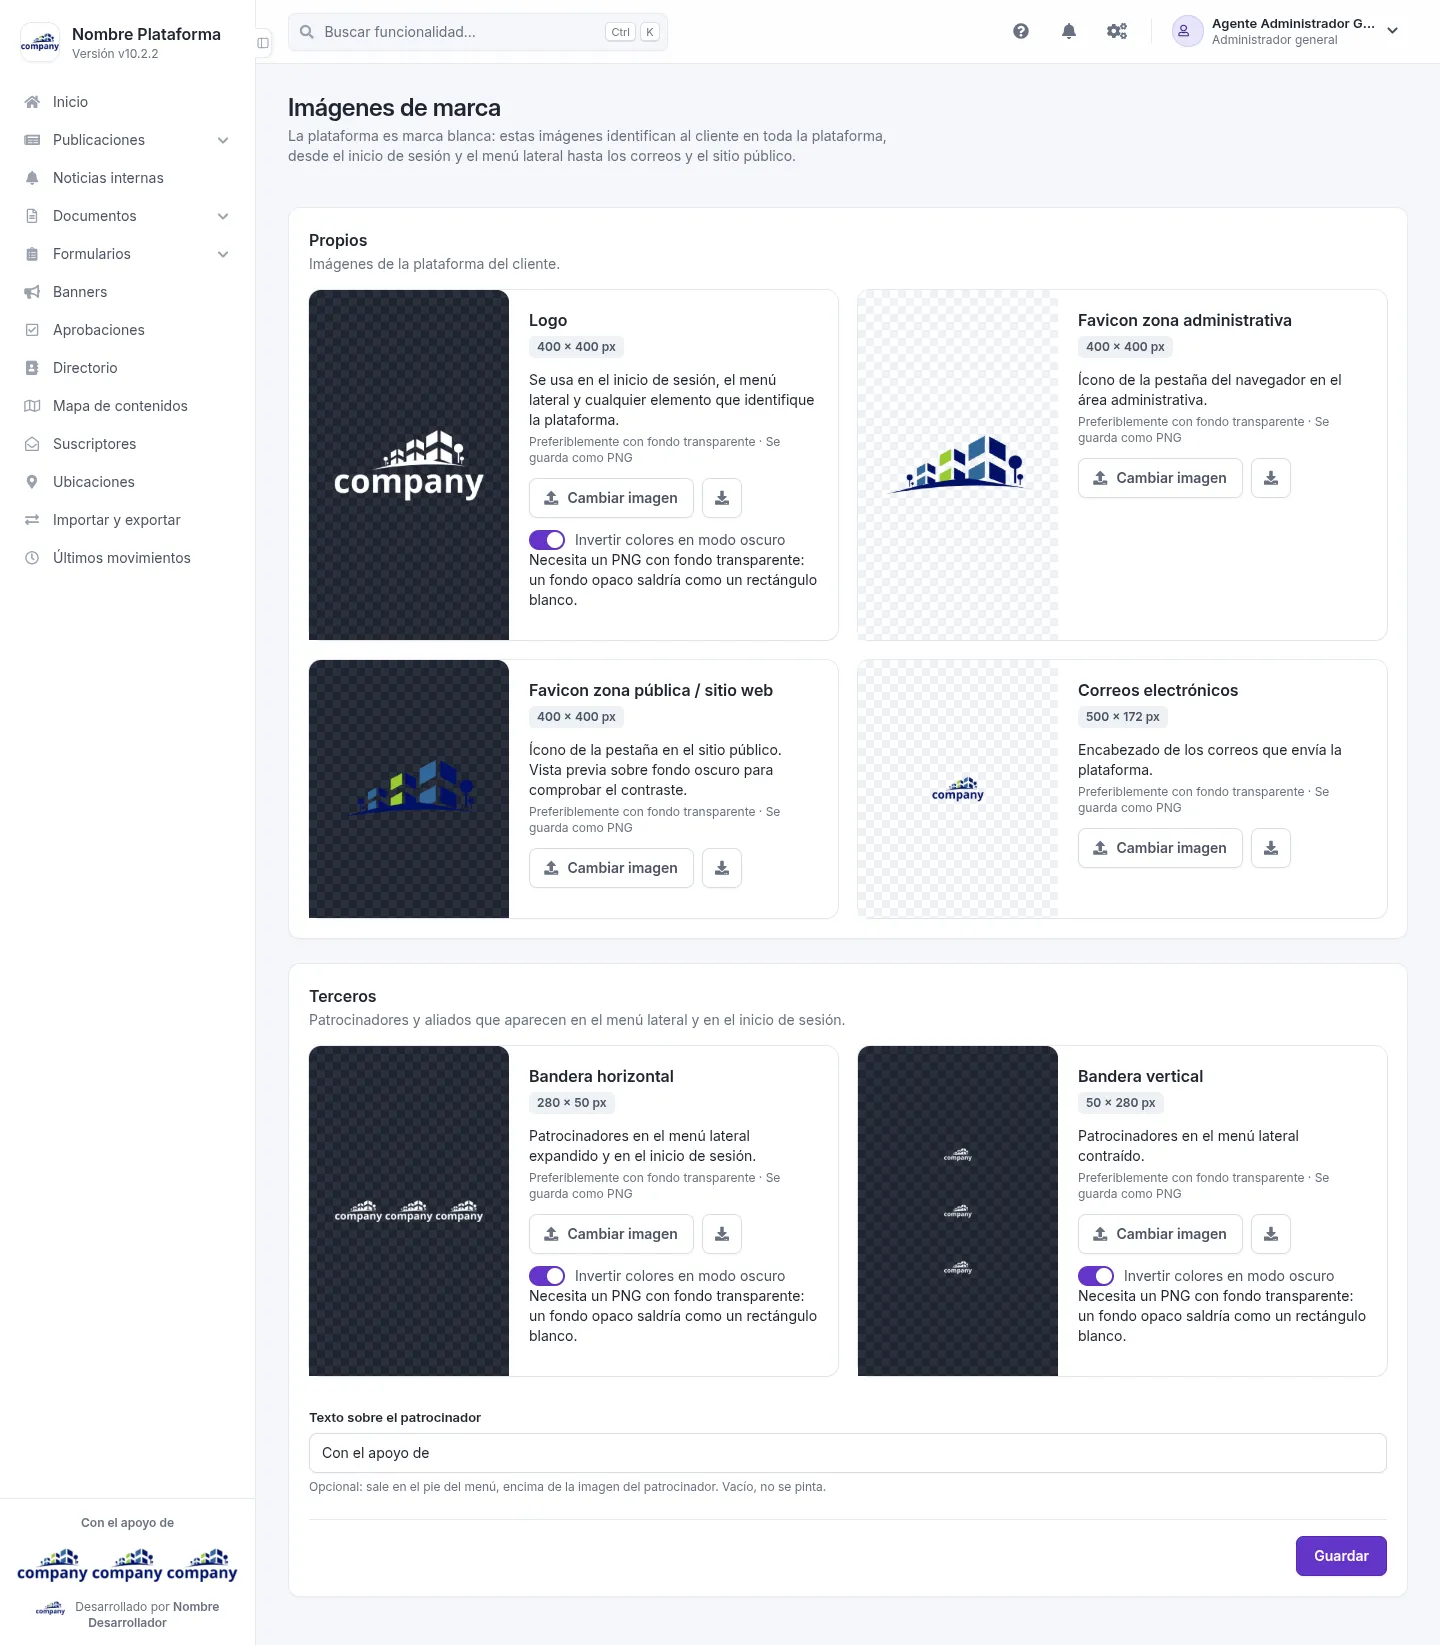
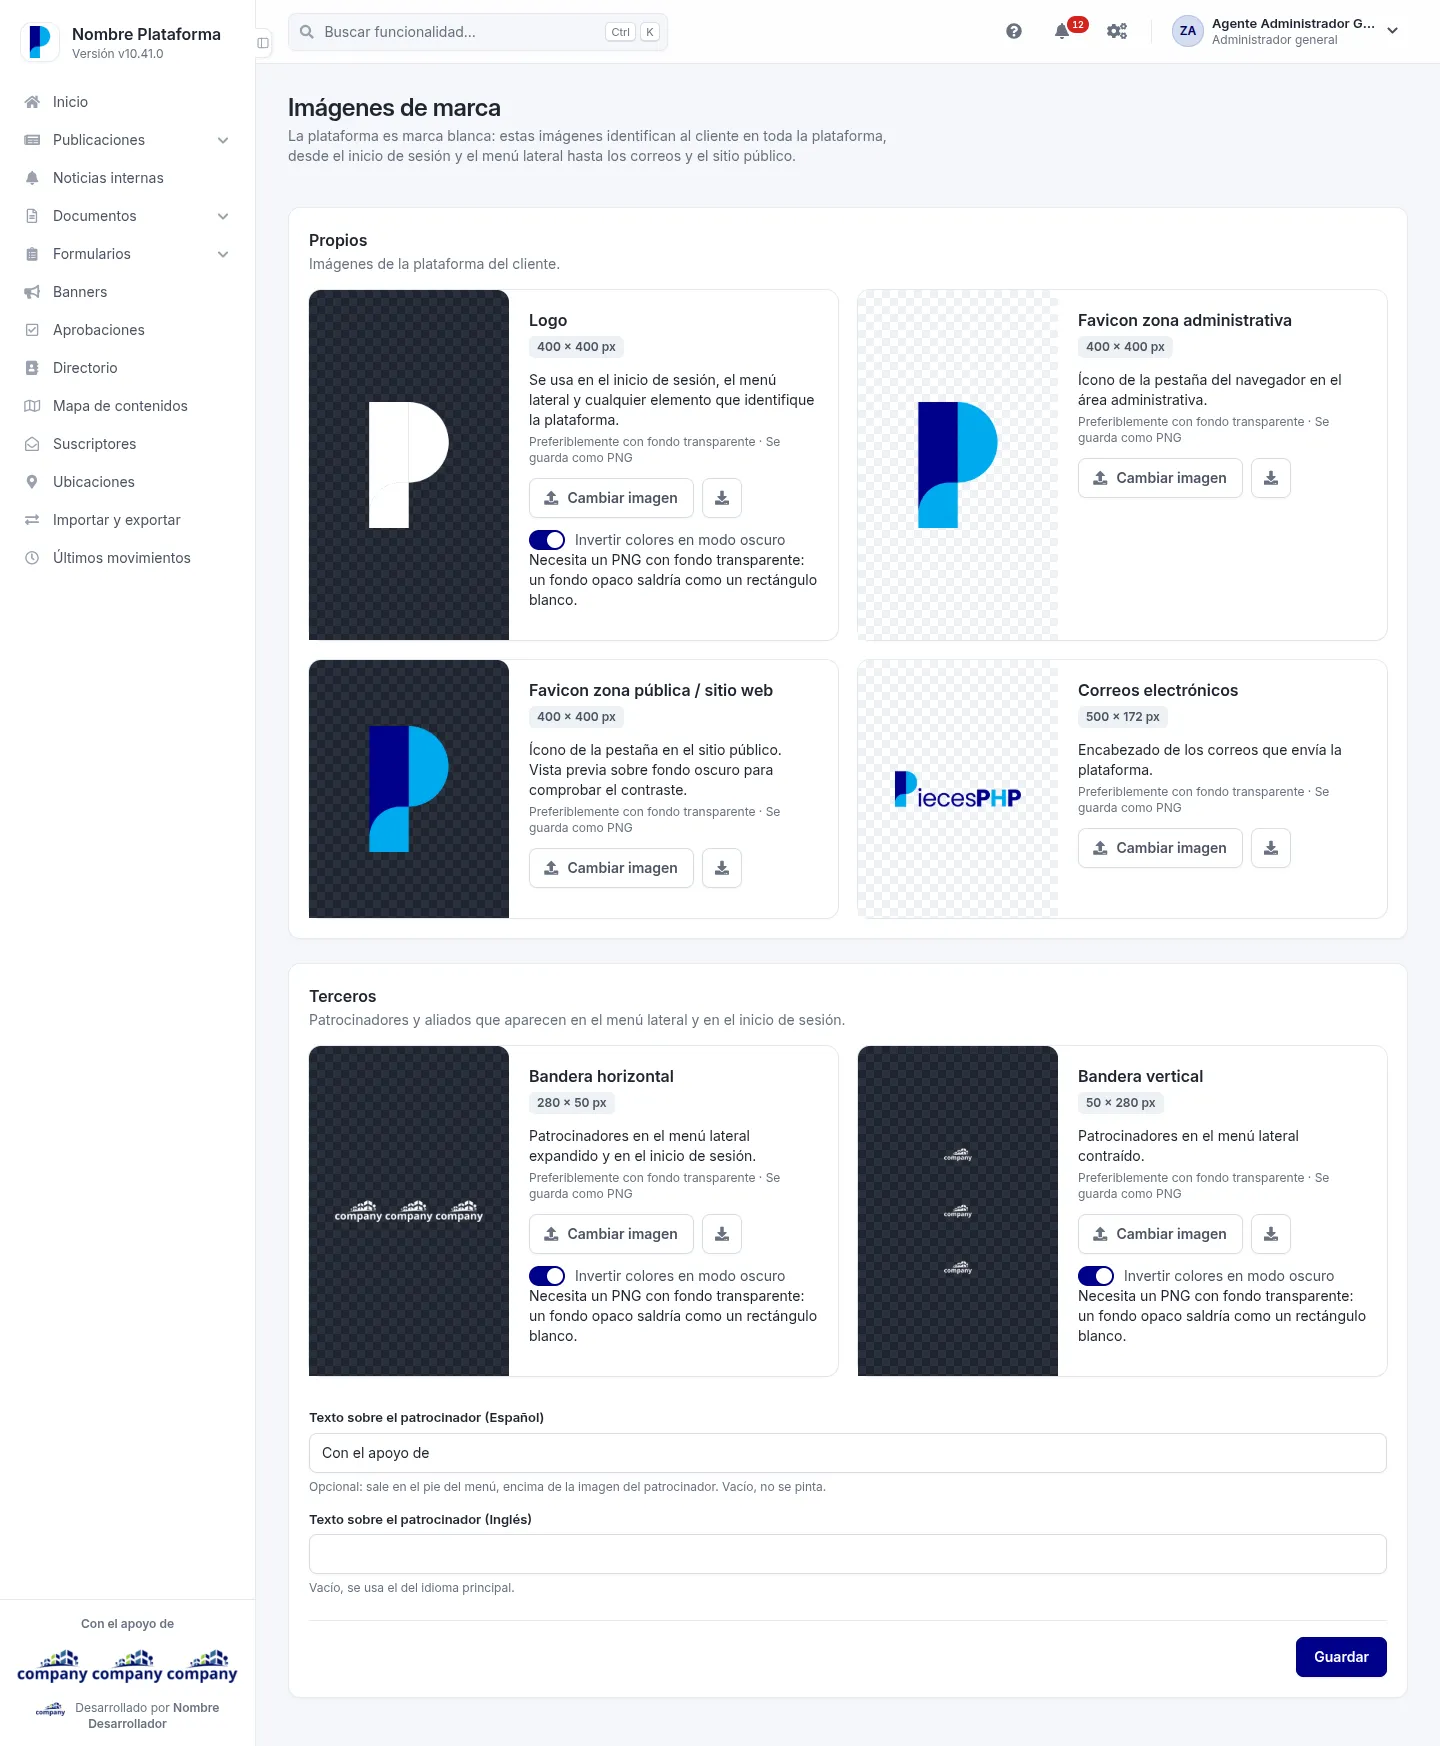
PiecesPHP v10.42.0

diff --git a/src/app/core/system-controllers/local-tests/UnitTest-AccessScreens.php b/src/app/core/system-controllers/local-tests/UnitTest-AccessScreens.php
@@ -387,6 +387,34 @@ CliActions::make('unit-tests:core/access-screens', function ($args) {
             set_config('developer_logo', $logoDesarrollador);
             set_config('developer_logo_invert_on_dark', $claveDesarrollador === false ? null : $claveDesarrollador);
         }
+        echoTerminal(' ');
+
+        //─── f · El logo de fábrica, el de hoy y el anterior, por su sha1 (H336) ─────────────────────
+        echoTerminal('[f] El logo de fábrica se reconoce por su sha1, el de hoy y el anterior (v10.41.0)');
+        $logoAntes = get_config('logo');
+        $opcionAntes = get_config($opcionLogo);
+        $viejo = 'app/cache/zz-logo-de-fabrica-viejo-' . bin2hex(random_bytes(3)) . '.png';
+        try {
+            //La opción sin guardar (get_config() da false): decide si el logo es el de fábrica.
+            set_config($opcionLogo, false);
+            set_config('logo', 'statics/images/logo.png');
+            $check(\PiecesPHP\Settings\Controllers\SettingsController::brandImageInvertsOnDark('logo'), 'f1 DISCRIMINANTE: el logo de fábrica de hoy, sin la opción guardada, se invierte en oscuro', (string) sha1_file(basepath('statics/images/logo.png')));
+            $proyecto = dirname(rtrim(str_replace('\\', '/', basepath('')), '/'));
+            $git = proc_open(['git', '--no-optional-locks', '-C', $proyecto, 'show', 'v10.41.0:src/statics/images/logo.png'], [1 => ['file', basepath($viejo), 'w'], 2 => ['file', '/dev/null', 'w']], $tuberias);
+            $sacado = is_resource($git) && proc_close($git) === 0 && sha1_file(basepath($viejo)) === '9cf27f1fbb82e550d03fbaca632f9c6563eec81a';
+            set_config('logo', $viejo);
+            $check($sacado && \PiecesPHP\Settings\Controllers\SettingsController::brandImageInvertsOnDark('logo'), 'f2 el logo de fábrica anterior (el de v10.41.0) también', $sacado ? '' : 'no se pudo sacar de git');
+            set_config('logo', 'statics/images/framework/main_logo.svg');
+            $check(!\PiecesPHP\Settings\Controllers\SettingsController::brandImageInvertsOnDark('logo'), 'f3 otra imagen, sin la opción, no');
+        } finally {
+            set_config('logo', $logoAntes);
+            set_config($opcionLogo, $opcionAntes);
+            if (is_file(basepath($viejo))) {
+                //RETORNO-IGNORADO: un temporal en app/cache/, que git ignora; f4 lo comprueba.
+                unlink(basepath($viejo));
+            }
+        }
+        $check(!is_file(basepath($viejo)), 'f4 no queda el logo viejo temporal');
     } catch (\Throwable $e) {
         $check(false, 'la suite corre entera', get_class($e) . ': ' . mb_substr($e->getMessage(), 0, 300));
     } finally {

diff --git a/src/app/classes/PiecesPHP/Settings/Controllers/SettingsController.php b/src/app/classes/PiecesPHP/Settings/Controllers/SettingsController.php
@@ -75,13 +75,13 @@ class SettingsController extends AdminPanelController
 
     use ControllerRoutingTrait;
     /**
-     * El sha1 de las imágenes de marca que trae el framework (statics/images/). Se distingue por el contenido y no por la
+     * Los sha1 de fábrica de cada imagen de marca (statics/images/), el de hoy y los anteriores. Por contenido y no por
      * ruta: una instalación anterior a H230 guardó su imagen propia en el MISMO archivo de fábrica.
      */
     const FACTORY_BRAND_IMAGES = [
-        'logo' => '9cf27f1fbb82e550d03fbaca632f9c6563eec81a',
-        'partners' => 'f99eed56bd1b37230c3da8219a88aa4ca3e815c1',
-        'partnersVertical' => '759ba8f2f55108ad876d8974da1ef0ae3dfbbf0f',
+        'logo' => ['267a9e14146deb1b23e52417da4512737bbceaa2', '98b74efa0dca1da2cbe5a671dd3d940d733319ee', '9cf27f1fbb82e550d03fbaca632f9c6563eec81a'],
+        'partners' => ['f99eed56bd1b37230c3da8219a88aa4ca3e815c1'],
+        'partnersVertical' => ['759ba8f2f55108ad876d8974da1ef0ae3dfbbf0f'],
     ];
 
     /**
@@ -3519,7 +3519,7 @@ class SettingsController extends AdminPanelController
         $value = get_config($configName);
         $file = is_string($value) && $value !== '' ? basepath($value) : '';
         return array_key_exists($configName, self::FACTORY_BRAND_IMAGES) && $file !== '' && is_file($file)
-            && sha1_file($file) === self::FACTORY_BRAND_IMAGES[$configName];
+            && in_array(sha1_file($file), (array) self::FACTORY_BRAND_IMAGES[$configName], true);
     }
 
     /**

diff --git a/src/app/core/bootstrap.php b/src/app/core/bootstrap.php
@@ -206,7 +206,7 @@ if (!defined('APP_VERSION')) {
     /**
      * Versión de la aplicación
      */
-    define('APP_VERSION', 'v10.41.0');
+    define('APP_VERSION', 'v10.42.0');
     /**
      * Fecha de la versión de la aplicación
      */

diff --git a/source-docs/project/docs/piecesphp/content/imagenes-de-configuracion.md b/source-docs/project/docs/piecesphp/content/imagenes-de-configuracion.md
@@ -14,6 +14,13 @@ borra: `SettingsController::deleteSettingsImage()` comprueba con `realpath` que 
 Una opción que apunte a una carpeta de fábrica (lo subido antes de la 10.11.0) se sigue leyendo tal cual; al
 sustituirla, el archivo viejo no se borra.
 
+**Las de fábrica salen del logo de PiecesPHP** (desde la 10.42.0): `src/statics/images/framework/main_logo.svg` (el
+rótulo) y `main_mark.svg` (la «P» sola). Las cuadradas (`logo.png`, `white-logo.png`, `loader-logo.png`, las favicons)
+llevan la marca; las anchas (`navbar-logo.png`, `mailing-logo.png`), el rótulo. **El logo de fábrica se reconoce por su
+contenido**, no por su ruta: `SettingsController::FACTORY_BRAND_IMAGES` guarda, por imagen, la lista de sha1 de fábrica
+(el de hoy y los anteriores), y `isFactoryBrandImage()` la usa para que el de fábrica se invierta en modo oscuro sin
+opción guardada. **Quien cambie una imagen de fábrica añade su sha1 nuevo a esa lista** y conserva los viejos.
+
 ## Del navegador a la base, en orden
 
 1. **La tarjeta** (`panel/built-in/content/image-card.php`) lleva en sus `data-*` el ancho, el alto, el formato, la

diff --git a/CHANGELOG.md b/CHANGELOG.md
@@ -1,3 +1,14 @@
+# 10.42.0 (17-11-2026)
+
+- **Las imágenes de fábrica son las de PiecesPHP**: el logo (la «P» del logo de PiecesPHP, para los cuadros del acceso y
+  del menú lateral, que llevan el nombre de la plataforma al lado), su versión blanca, la de la barra y la de los correos
+  (el rótulo «PiecesPHP»), la del cargador y las dos favicons (la «P»), y la favicon de la documentación. Salen de
+  `src/statics/images/framework/main_logo.svg` y de la marca sola, `main_mark.svg`. «Con el apoyo de» y «Desarrollado
+  por» siguen con su imagen de relleno: son de terceros de cada proyecto.
+- **Al actualizar**: si tu instalación nunca subió sus imágenes en Configuración › Apariencia › Imágenes de marca, verás
+  las de PiecesPHP en lugar de «company». Las que subiste no cambian. El logo de fábrica de antes se sigue reconociendo:
+  en modo oscuro se invierte igual.
+
 # 10.41.0 (17-11-2026)
 
 - **Si la IA no consigue apuntar lo que gasta, root lo ve**: cuando la base de datos no deja escribir en ese momento, la

diff --git a/source-docs/project/docs/piecesphp/content/ia.md b/source-docs/project/docs/piecesphp/content/ia.md
@@ -142,7 +142,7 @@ if ($handler === null) {
   datos** (como siempre hizo la traducción), porque la petición al proveedor puede tardar; el siguiente acceso a la
   base la vuelve a abrir.
 - `recordUsage()` suma los tokens y una petición en la fila del periodo vigente de esa capacidad y ese proveedor, y
-  también en el acumulado por proveedor que enseña Configuración › IA. **Nunca lanza.** Si la base no deja escribir (sin
+  también en el acumulado por proveedor que enseña Configuración › IA. **Un fallo al escribir no lanza** (sí lanza `InvalidArgumentException` con una capacidad no registrada). Si la base no deja escribir (sin
   espacio, en solo lectura, sin permiso, un bloqueo), el fallo va al registro de errores, la petición no cuenta para la
   cuota y la función sigue; además deja la marca `app/cache/ai-usage-write-failed.json` (`AIGateway::USAGE_FAILED_MARK`:
   primer y último fallo, y cuántos), que root ve como el aviso del sistema `ai-usage-write-failed` durante 7 días desde
